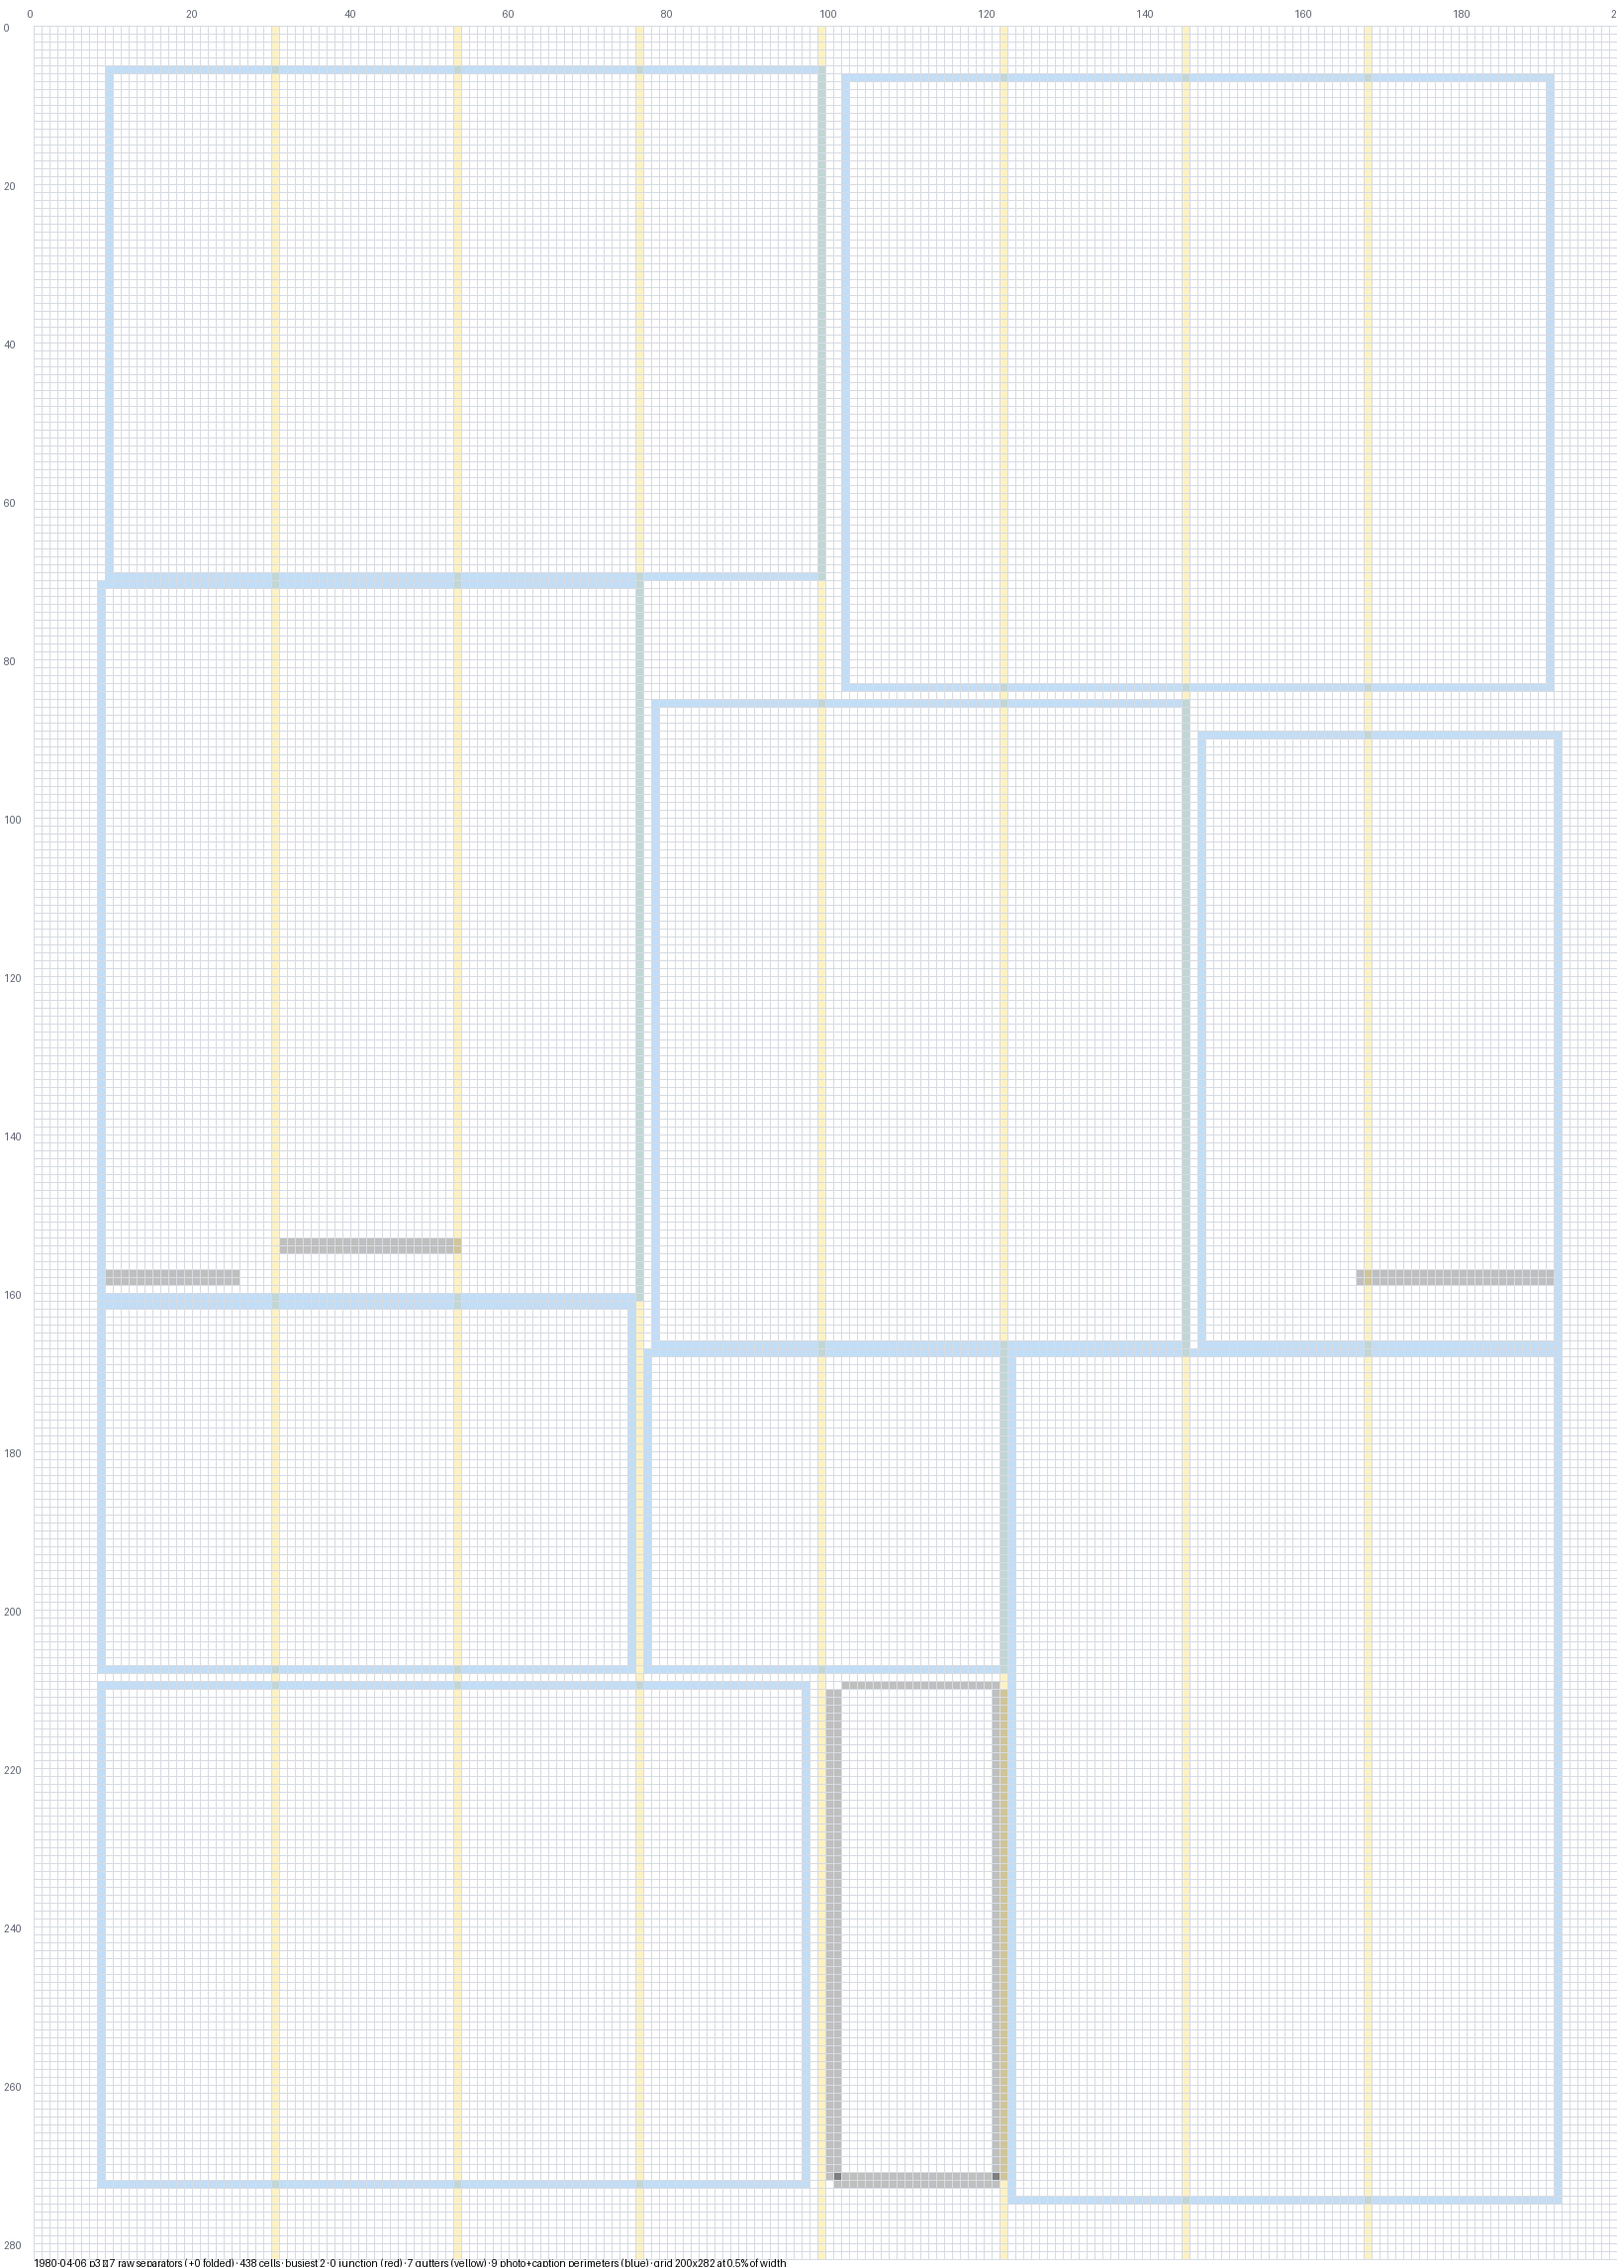
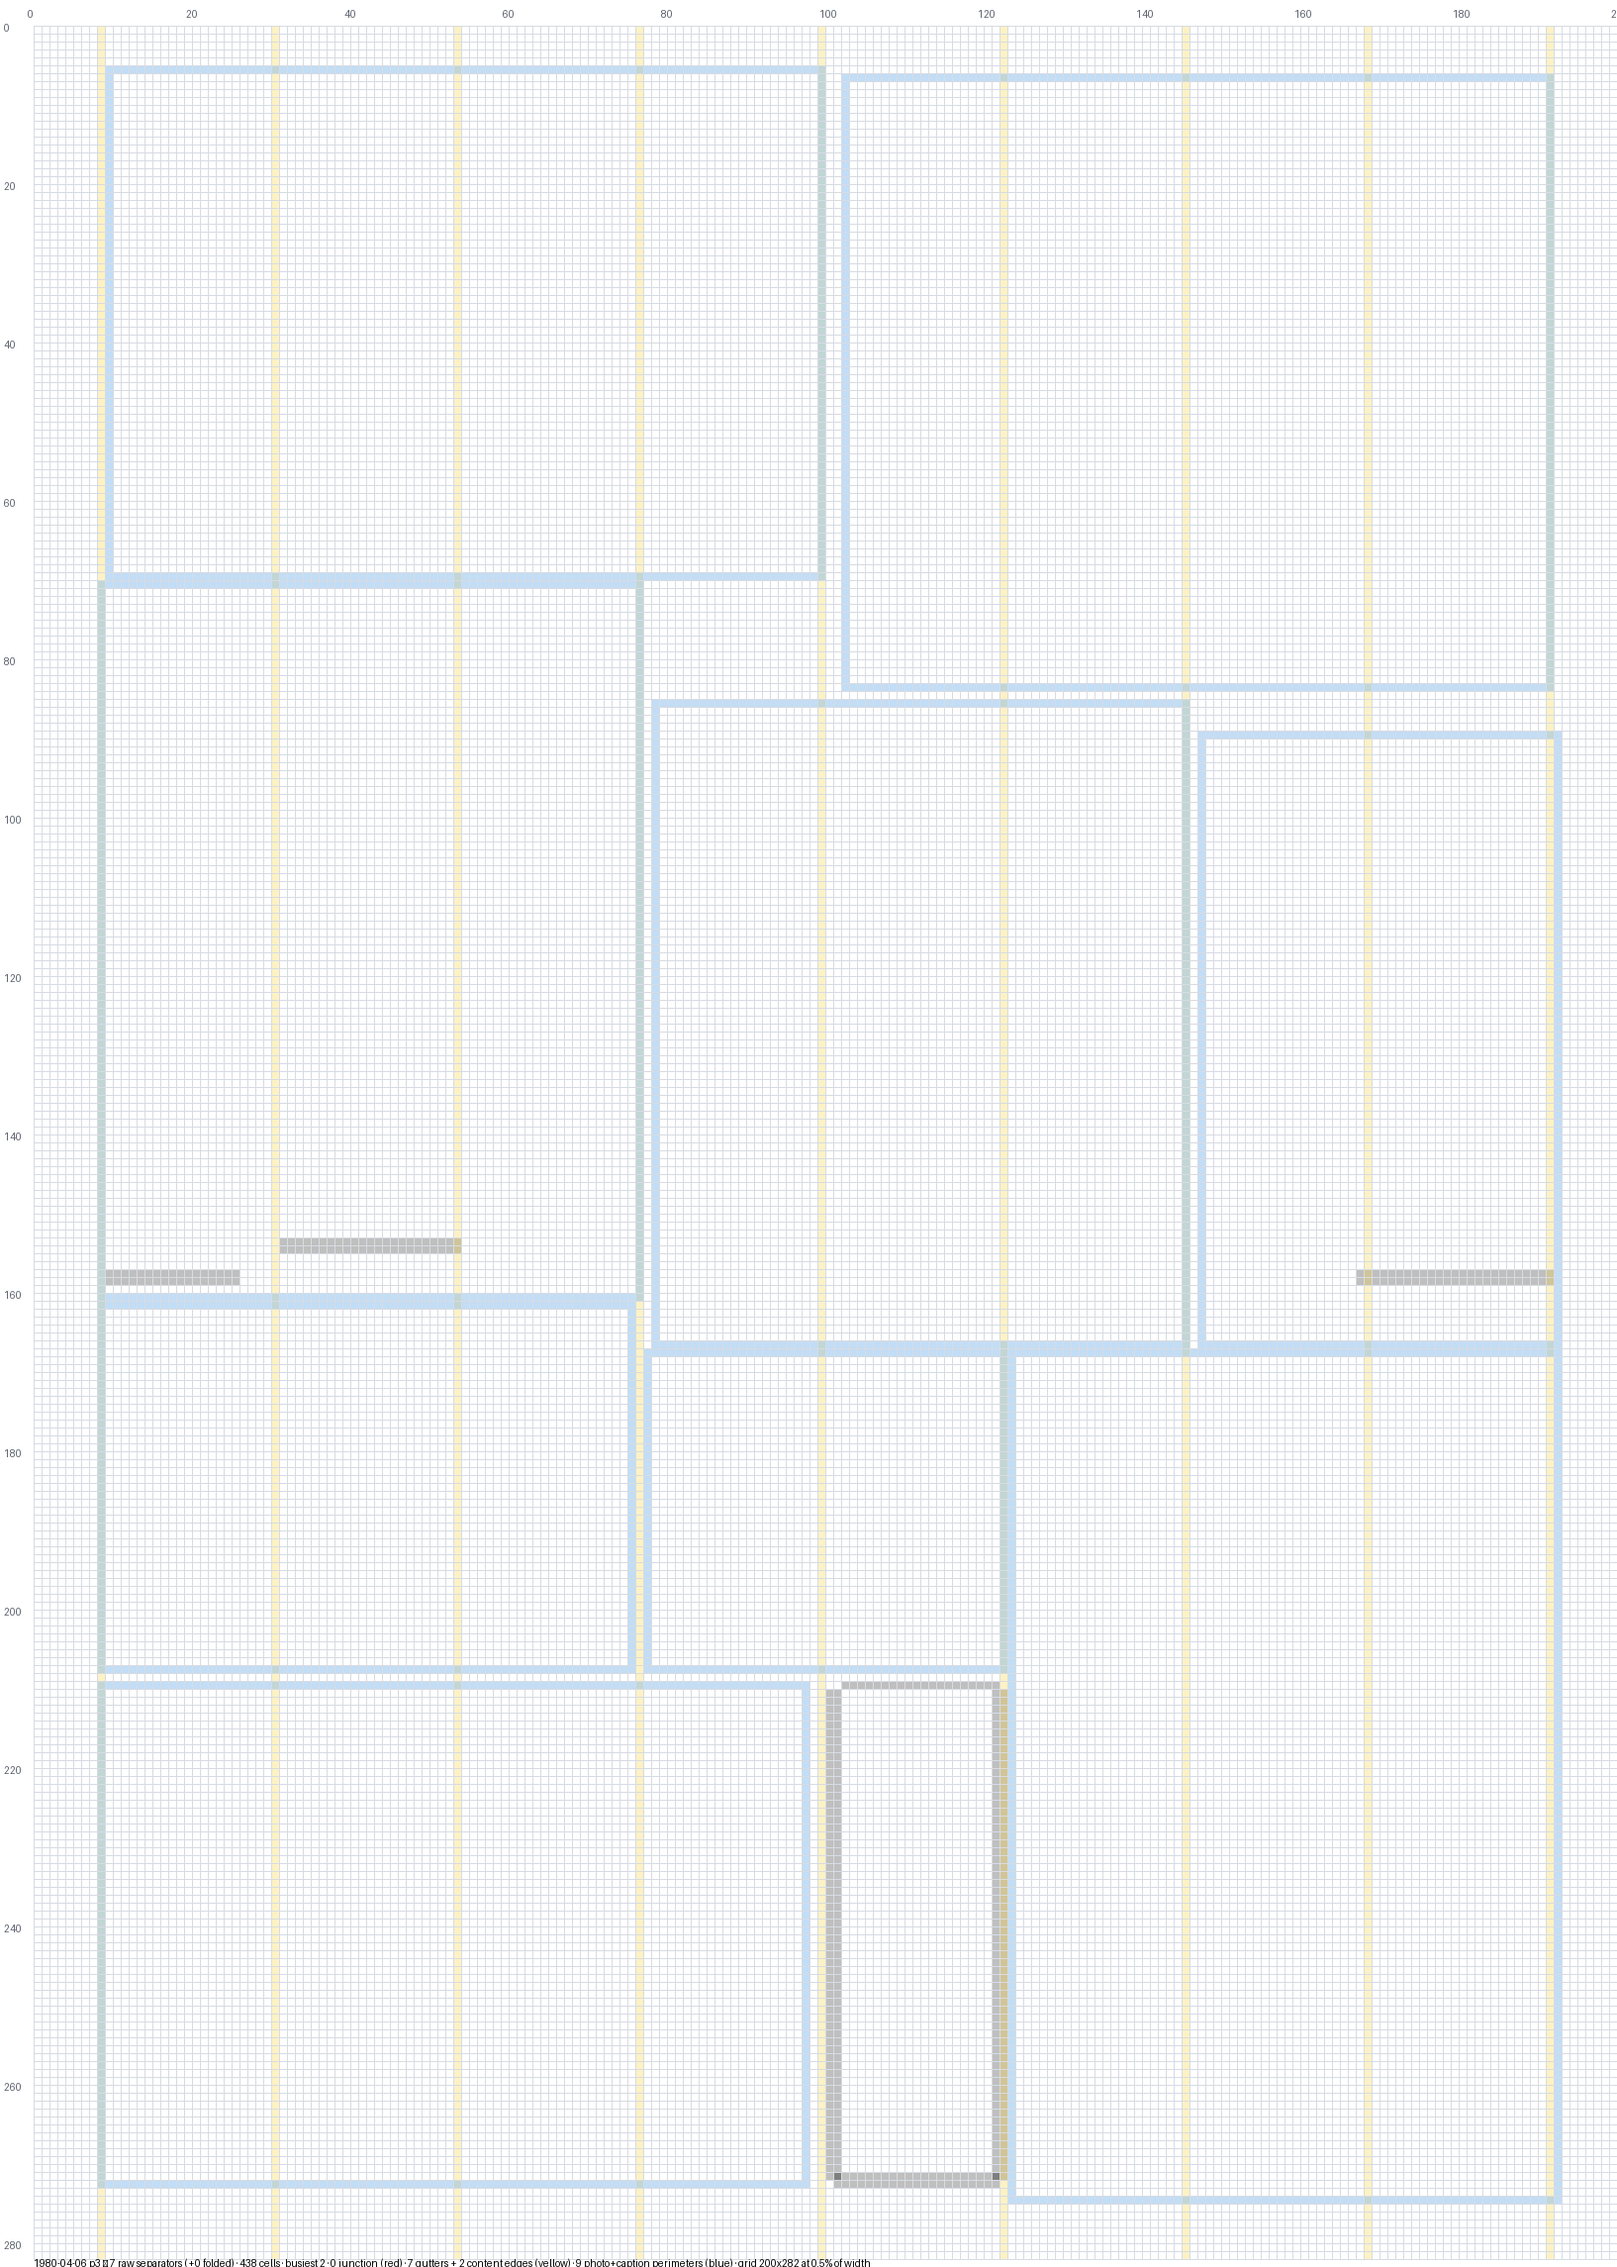
scaled/grid: include the content-area edges in the yellow reference lines
Gutter centres alone explained only 2 of p13's 10 verticals. Adding the
content area's left and right edges takes it to 7 of 10:

    vertical   nearest reference    dist
      4.78     content edge 4.91    0.13
     37.97     gutter      38.80    0.83
     39.22     gutter      38.80    0.42
     61.11     gutter      61.40    0.29
     62.11     gutter      61.40    0.71
     94.42     content edge 95.02   0.60
     95.92     content edge 95.02   0.90

The three outer verticals that looked anomalous in the previous
measurement (10-12% from any gutter) were not anomalies -- they sit on the
content edges, which are not gutters but are the other place a vertical
rule has a principled reason to be.

Both kinds get the same tint, because the question the overlay answers is
"does this rule have a reason to be here", and a content edge is as good a
reason as a gutter. Visible on the render: the left-hand box rule blends
to olive where it crosses the content-edge line, i.e. it sits exactly on it.

Genuinely unexplained on p13 are 10.19, 74.02 and 88.59 -- box sides that
sit INSIDE a column (the ELECTRICAL INSTALLATION box and the inner panel
at the page foot, both narrower than the grid).

Claude-Session: https://claude.ai/code/session_01FiL5RaDmQAWNR3gnQRCAgK

Changed region(s): [[0.9364, 0.031, 0.9676, 0.9921], [0.2809, 0.9921, 0.5306, 1.0]]

diff --git a/transcribe/scaled/experiments/separator_grid.py b/transcribe/scaled/experiments/separator_grid.py
@@ -112,19 +112,31 @@ def _fold_contained(regions: list[dict]) -> tuple[list[dict], list[dict]]:
     return keep, folded
 
 
-def _gutter_centres(conn, page_id: str) -> list[float]:
-    """x of the CENTRE of each gutter between adjacent columns.
+def _gutter_centres(conn, page_id: str) -> tuple[list[float], list[float]]:
+    """Vertical reference lines: gutter centres, and the content edges.
 
-    The centre line, not the column edges: the question this view is meant
-    to answer is whether the rules separate cleanly around the gutter, and
-    a pair of edge lines would pre-empt that by drawing where the answer is
+    Gutter CENTRES, not the column edges: the question this view exists to
+    answer is whether the rules separate cleanly around a gutter, and a
+    pair of edge lines would pre-empt that by drawing where the answer is
     supposed to be.
+
+    The content area's own left and right edges are returned alongside.
+    They are not gutters -- they are where the type starts and stops -- but
+    they are the other place a vertical rule has a principled reason to
+    sit, and the outer verticals on 1980-04-06 p13 (x 4.78, 94.42, 95.92)
+    sit 10-12% from any gutter precisely because they belong to these
+    instead.
     """
     cols = [dict(r) for r in conn.execute(
         "SELECT left_pct, right_pct FROM page_columns WHERE page_id=? "
         "AND method='grid' ORDER BY col_idx", (page_id,))]
-    return [(cols[i]["right_pct"] + cols[i + 1]["left_pct"]) / 2
-            for i in range(len(cols) - 1)]
+    gutters = [(cols[i]["right_pct"] + cols[i + 1]["left_pct"]) / 2
+               for i in range(len(cols) - 1)]
+    r = conn.execute(
+        "SELECT content_left_pct l, content_right_pct r FROM pages WHERE id=?",
+        (page_id,)).fetchone()
+    edges = [r["l"], r["r"]] if r and r["l"] is not None else []
+    return gutters, edges
 
 
 def _photo_units(conn, page_id: str) -> list[tuple]:
@@ -210,11 +222,16 @@ def build(conn, page_id: str, clean: bool = False):
             others = occupied.get((cy, cx), set()) - {i}
             if others:
                 junction[cy][cx] = True
+    # Both kinds of vertical reference get the same tint: the point is
+    # "a rule here has a reason to be here", and the content edge is as
+    # good a reason as a gutter.
+    gutters, edges = _gutter_centres(conn, page_id)
     gutter = [False] * n_cols
-    for gx in _gutter_centres(conn, page_id):
+    for gx in gutters + edges:
         cx = int(gx / CELL_PCT)
         if 0 <= cx < n_cols:
             gutter[cx] = True
+    n_gut, n_edge = len(gutters), len(edges)
 
     # PERIMETER only, not the filled rectangle: this grid is a view of
     # boundaries, and flooding the interior would bury the rules and
@@ -232,7 +249,7 @@ def build(conn, page_id: str, clean: bool = False):
             photo[y][c0] = photo[y][c1] = True
 
     return (counts, junction, gutter, photo, n_cols, n_rows,
-            len(regions), len(swallowed), len(units))
+            len(regions), len(swallowed), len(units), n_gut, n_edge)
 
 
 def _blend(base: tuple, tint: tuple, amount: float) -> tuple:
@@ -293,16 +310,16 @@ def _cmd(args):
             print("no such page")
             return
         (counts, junc, gut, photo, nc, nr,
-         n, folded, nphoto) = build(conn, row["id"], args.clean)
+         n, folded, nphoto, n_gut, n_edge) = build(conn, row["id"], args.clean)
         busiest = max(max(r) for r in counts)
         cells = sum(1 for r in counts for v in r if v)
         njunc = sum(1 for r in junc for v in r if v)
         kind = "cleaned" if args.clean else "raw"
         title = (f"{args.date} p{args.page} — {n} {kind} separators "
                  f"(+{folded} folded) · {cells} cells · busiest {busiest} "
-                 f"· {njunc} junction (red) · {sum(gut)} gutters (yellow) "
-                 f"· {nphoto} photo+caption perimeters (blue) "
-                 f"· grid {nc}x{nr} at {CELL_PCT}% of width")
+                 f"· {njunc} junction (red) · {n_gut} gutters + {n_edge} "
+                 f"content edges (yellow) · {nphoto} photo+caption "
+                 f"perimeters (blue) · grid {nc}x{nr} at {CELL_PCT}% of width")
         suffix = "_clean" if args.clean else ""
         out = os.path.join(OUT_DIR, args.date,
                            f"p{args.page}_sepgrid{suffix}.png")
